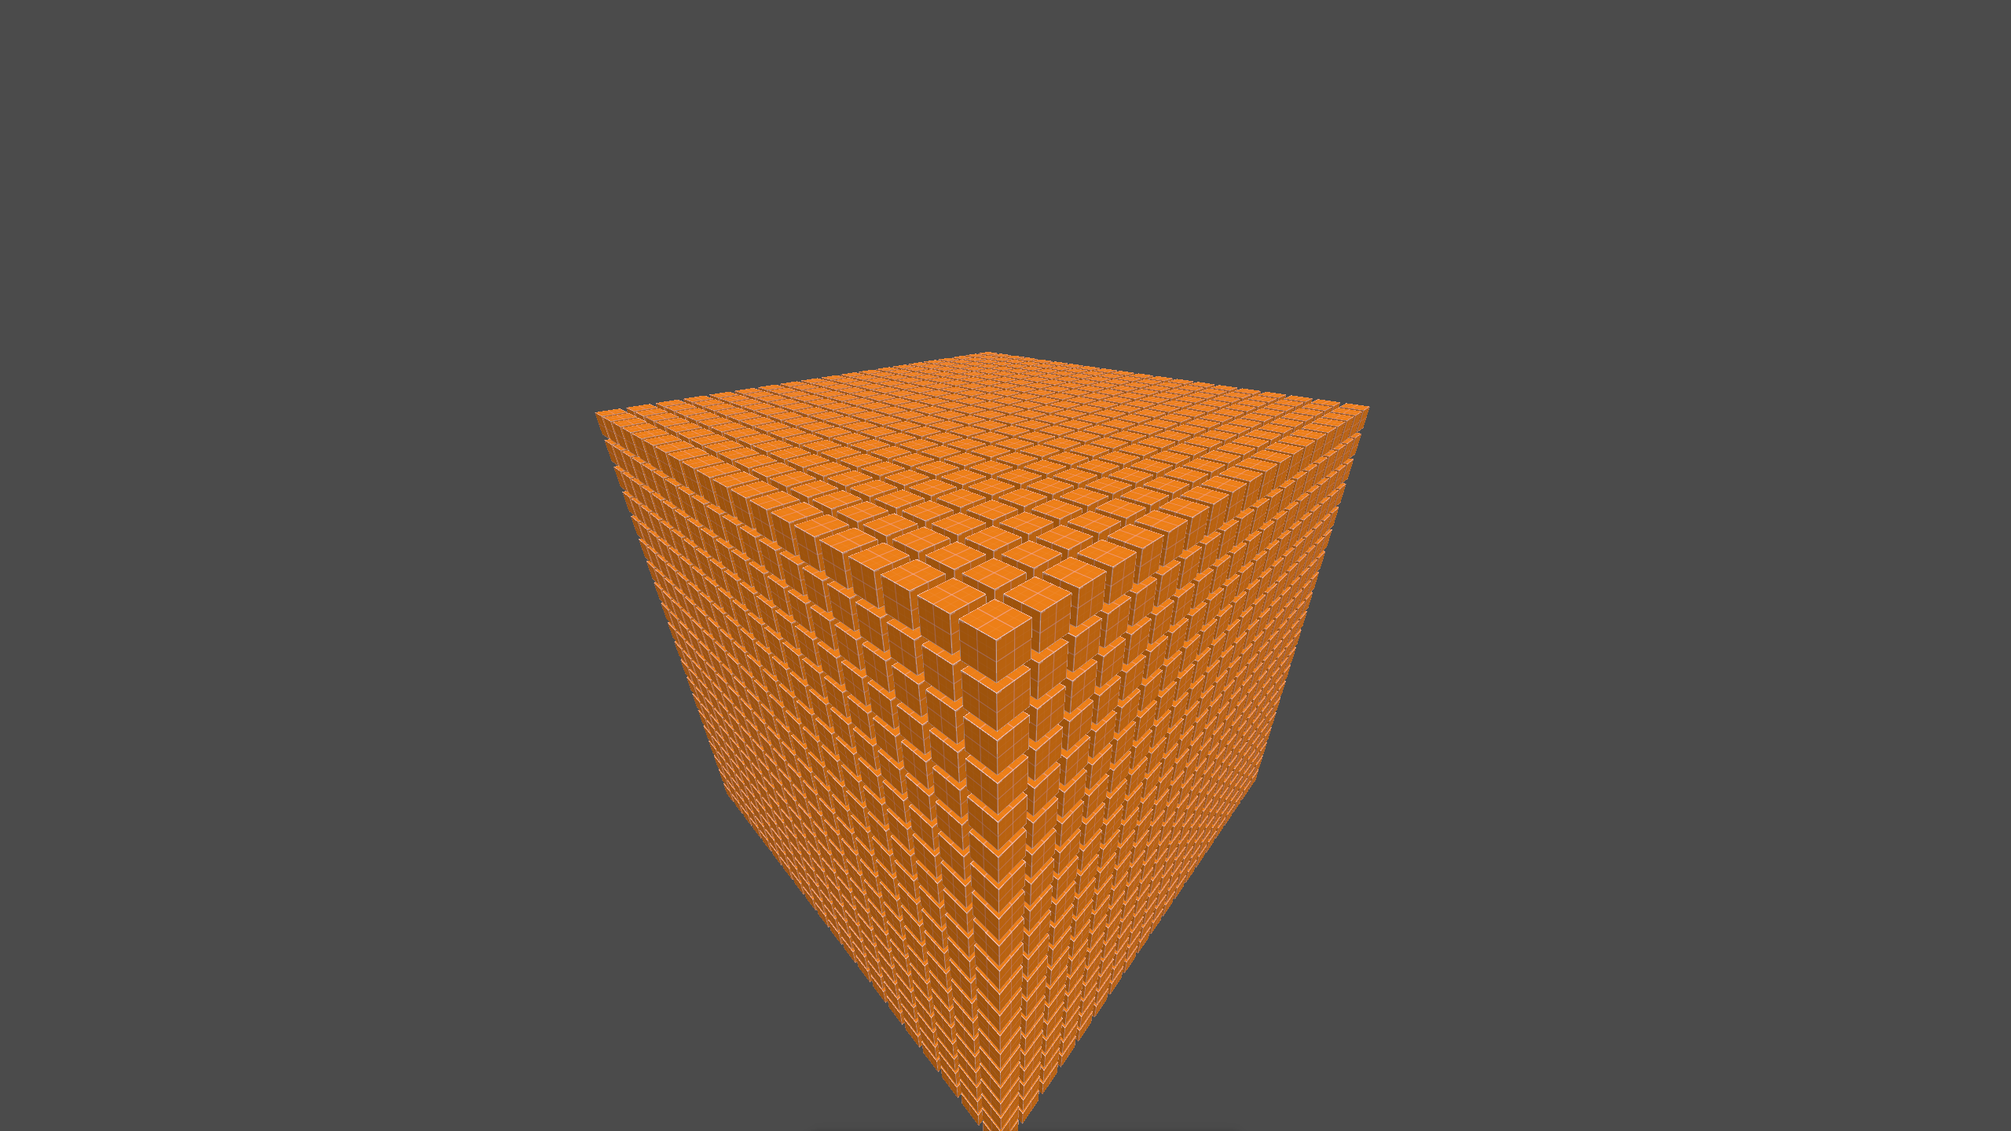
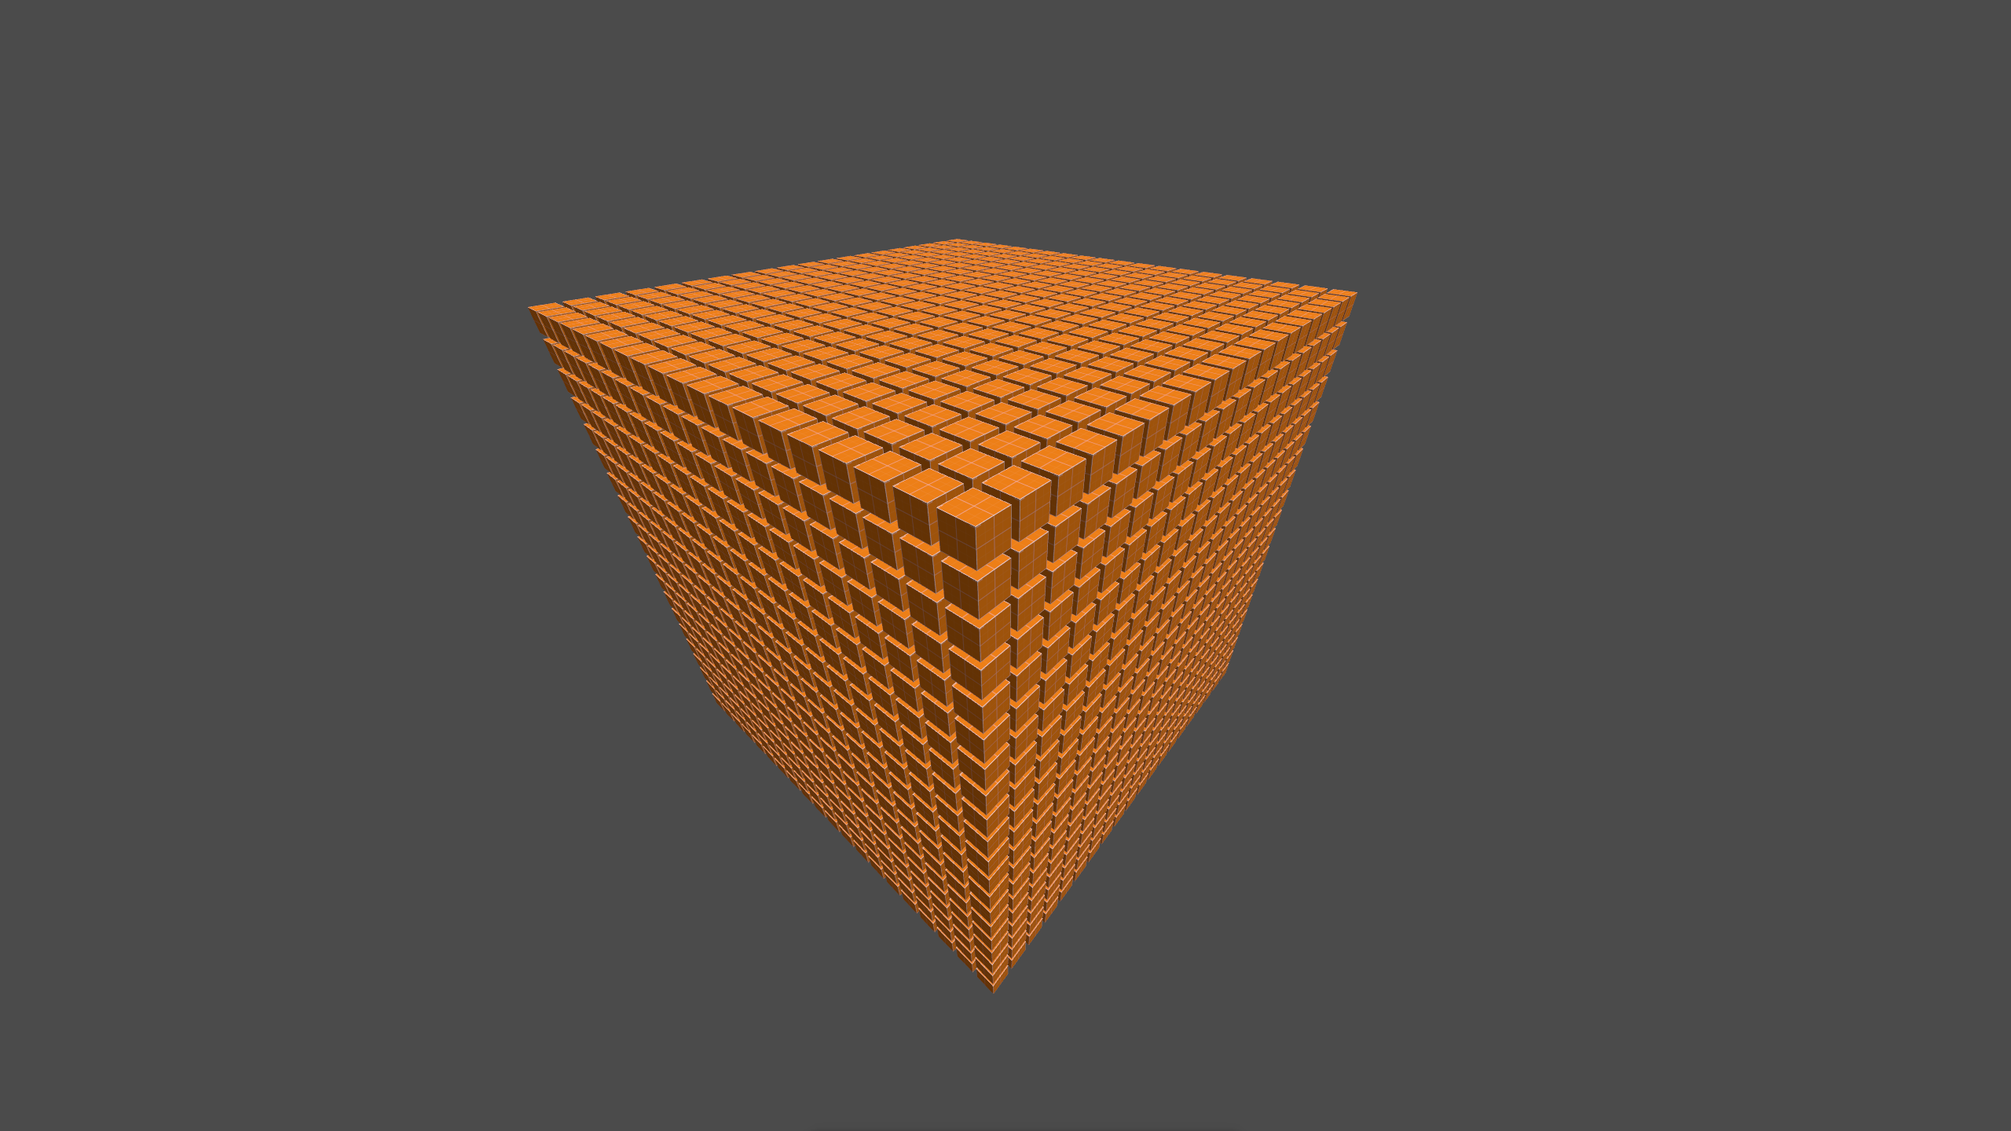
added: msaa

Changed region(s): [[0.25, 0.1875, 0.6875, 1.0]]

diff --git a/src/vulkan/image.cc b/src/vulkan/image.cc
@@ -12,13 +12,13 @@ namespace n_image
   {
     VkImageViewCreateInfo viewInfo{};
     viewInfo.sType    = VK_STRUCTURE_TYPE_IMAGE_VIEW_CREATE_INFO;
-    viewInfo.image    = texture.image;
+    viewInfo.image    = texture.m_image;
     viewInfo.viewType = VK_IMAGE_VIEW_TYPE_2D;
     viewInfo.format   = format;
 
     viewInfo.subresourceRange.aspectMask      = VK_IMAGE_ASPECT_COLOR_BIT;
     viewInfo.subresourceRange.baseMipLevel    = 0;
-    viewInfo.subresourceRange.levelCount      = texture.mipLevels;
+    viewInfo.subresourceRange.levelCount      = texture.m_mipLevels;
     viewInfo.subresourceRange.baseArrayLayer  = 0;
     viewInfo.subresourceRange.layerCount      = 1;
 
@@ -42,7 +42,7 @@ void generateMipmaps(Context &context, Command &command, Texture &texture,
 
   VkImageMemoryBarrier barrier{};
   barrier.sType                           = VK_STRUCTURE_TYPE_IMAGE_MEMORY_BARRIER;
-  barrier.image                           = texture.image;
+  barrier.image                           = texture.m_image;
   barrier.srcQueueFamilyIndex             = VK_QUEUE_FAMILY_IGNORED;
   barrier.dstQueueFamilyIndex             = VK_QUEUE_FAMILY_IGNORED;
   barrier.subresourceRange.aspectMask     = VK_IMAGE_ASPECT_COLOR_BIT;
@@ -80,8 +80,8 @@ void generateMipmaps(Context &context, Command &command, Texture &texture,
     blit.dstSubresource.layerCount     = 1;
 
     vkCmdBlitImage(commandBuffer,
-        texture.image, VK_IMAGE_LAYOUT_TRANSFER_SRC_OPTIMAL,
-        texture.image, VK_IMAGE_LAYOUT_TRANSFER_DST_OPTIMAL,
+        texture.m_image, VK_IMAGE_LAYOUT_TRANSFER_SRC_OPTIMAL,
+        texture.m_image, VK_IMAGE_LAYOUT_TRANSFER_DST_OPTIMAL,
         1, &blit, VK_FILTER_LINEAR);
 
     barrier.oldLayout     = VK_IMAGE_LAYOUT_TRANSFER_SRC_OPTIMAL;
@@ -117,13 +117,13 @@ void generateMipmaps(Context &context, Command &command, Texture &texture,
     if (!pixels)
       throw std::runtime_error("failed to load texture image: " + path);
 
-    texture.width  = static_cast<uint32_t>(width);
-    texture.height = static_cast<uint32_t>(height);
+    texture.m_width  = static_cast<uint32_t>(width);
+    texture.m_height = static_cast<uint32_t>(height);
 
-    texture.mipLevels = static_cast<uint32_t>(
+    texture.m_mipLevels = static_cast<uint32_t>(
         std::floor(std::log2(std::max(width, height)))) + 1;
 
-    VkDeviceSize imageSize = static_cast<VkDeviceSize>(texture.width) * texture.height * 4;
+    VkDeviceSize imageSize = static_cast<VkDeviceSize>(texture.m_width) * texture.m_height * 4;
 
     Buffer staging{};
     n_buffer::create_buffer(staging, context, imageSize, VK_BUFFER_USAGE_TRANSFER_SRC_BIT,
@@ -136,15 +136,18 @@ void generateMipmaps(Context &context, Command &command, Texture &texture,
     VkImageCreateInfo imageInfo{};
     imageInfo.sType         = VK_STRUCTURE_TYPE_IMAGE_CREATE_INFO;
     imageInfo.imageType     = VK_IMAGE_TYPE_2D;
-    imageInfo.extent.width  = texture.width;
-    imageInfo.extent.height = texture.height;
+    imageInfo.extent.width  = texture.m_width;
+    imageInfo.extent.height = texture.m_height;
     imageInfo.extent.depth  = 1;
-    imageInfo.mipLevels     = texture.mipLevels;
+    imageInfo.mipLevels     = texture.m_mipLevels;
     imageInfo.arrayLayers   = 1;
     imageInfo.format        = VK_FORMAT_R8G8B8A8_SRGB;
     imageInfo.tiling        = VK_IMAGE_TILING_OPTIMAL;
     imageInfo.initialLayout = VK_IMAGE_LAYOUT_UNDEFINED;
-imageInfo.usage = VK_IMAGE_USAGE_TRANSFER_DST_BIT | VK_IMAGE_USAGE_TRANSFER_SRC_BIT | VK_IMAGE_USAGE_SAMPLED_BIT;
+    imageInfo.usage         = VK_IMAGE_USAGE_TRANSFER_DST_BIT |
+                              VK_IMAGE_USAGE_TRANSFER_SRC_BIT |
+                              VK_IMAGE_USAGE_SAMPLED_BIT;
+
     imageInfo.sharingMode   = VK_SHARING_MODE_EXCLUSIVE;
     imageInfo.samples       = VK_SAMPLE_COUNT_1_BIT;
 
@@ -152,29 +155,30 @@ imageInfo.usage = VK_IMAGE_USAGE_TRANSFER_DST_BIT | VK_IMAGE_USAGE_TRANSFER_SRC_
     allocInfo.usage = VMA_MEMORY_USAGE_AUTO;
 
     vkCheck(vmaCreateImage(context.m_allocator, &imageInfo, &allocInfo,
-          &texture.image, &texture.allocation, nullptr),
+          &texture.m_image, &texture.m_allocation, nullptr),
         "failed to create texture image");
 
     n_buffer::transitionImageLayout(context, command, texture, VK_FORMAT_R8G8B8A8_SRGB,
         VK_IMAGE_LAYOUT_UNDEFINED, VK_IMAGE_LAYOUT_TRANSFER_DST_OPTIMAL);
 
-    n_buffer::copyBufferToImage(context, command, staging.m_buffer, texture.image, texture.width, texture.height);
+    n_buffer::copyBufferToImage(context, command, staging.m_buffer, texture.m_image,
+        texture.m_width, texture.m_height);
 
     n_buffer::destroyBuffer(staging, context);
     n_image::generateMipmaps(context, command, texture, VK_FORMAT_R8G8B8A8_SRGB,
-    texture.width, texture.height, texture.mipLevels);
+    texture.m_width, texture.m_height, texture.m_mipLevels);
 
-    texture.view = createImageView(context, texture, VK_FORMAT_R8G8B8A8_SRGB);
+    texture.m_view = createImageView(context, texture, VK_FORMAT_R8G8B8A8_SRGB);
   }
   void destroyTexture(Texture &texture, Context &context)
   {
-    if (texture.image != VK_NULL_HANDLE)
-      vkDestroyImage(context.m_device, texture.image, nullptr);
+    if (texture.m_image != VK_NULL_HANDLE)
+      vkDestroyImage(context.m_device, texture.m_image, nullptr);
 
-    if (texture.allocation != VK_NULL_HANDLE)
-      vmaFreeMemory(context.m_allocator, texture.allocation);
+    if (texture.m_allocation != VK_NULL_HANDLE)
+      vmaFreeMemory(context.m_allocator, texture.m_allocation);
 
-    if (texture.view != VK_NULL_HANDLE)
-      vkDestroyImageView(context.m_device, texture.view, nullptr);
+    if (texture.m_view != VK_NULL_HANDLE)
+      vkDestroyImageView(context.m_device, texture.m_view, nullptr);
   }
 }

diff --git a/src/vulkan/context.cc b/src/vulkan/context.cc
@@ -23,19 +23,15 @@ namespace n_context {
 
   VkSampleCountFlagBits getMaxUsableSampleCount(Context &context)
   {
-    VkPhysicalDeviceProperties physicalDeviceProperties;
-    vkGetPhysicalDeviceProperties(context.m_physicalDevice, &physicalDeviceProperties);
-
-    VkSampleCountFlags counts = 
-      physicalDeviceProperties.limits.framebufferColorSampleCounts &
-      physicalDeviceProperties.limits.framebufferDepthSampleCounts;
-
-    if (counts & VK_SAMPLE_COUNT_64_BIT) { return VK_SAMPLE_COUNT_64_BIT; }
-    if (counts & VK_SAMPLE_COUNT_32_BIT) { return VK_SAMPLE_COUNT_32_BIT; }
-    if (counts & VK_SAMPLE_COUNT_16_BIT) { return VK_SAMPLE_COUNT_16_BIT; }
-    if (counts & VK_SAMPLE_COUNT_8_BIT) { return VK_SAMPLE_COUNT_8_BIT; }
-    if (counts & VK_SAMPLE_COUNT_4_BIT) { return VK_SAMPLE_COUNT_4_BIT; }
-    if (counts & VK_SAMPLE_COUNT_2_BIT) { return VK_SAMPLE_COUNT_2_BIT; }
+    if (context.m_msaa > 16 )
+    {
+      std::print("msaa sample count is too high 1x - 16x\n");
+      context.m_msaa = 16;
+    }
+    if (context.m_msaa & VK_SAMPLE_COUNT_16_BIT) { return VK_SAMPLE_COUNT_16_BIT; }
+    if (context.m_msaa & VK_SAMPLE_COUNT_8_BIT)  { return VK_SAMPLE_COUNT_8_BIT;  }
+    if (context.m_msaa & VK_SAMPLE_COUNT_4_BIT)  { return VK_SAMPLE_COUNT_4_BIT;  }
+    if (context.m_msaa & VK_SAMPLE_COUNT_2_BIT)  { return VK_SAMPLE_COUNT_2_BIT;  }
 
     return VK_SAMPLE_COUNT_1_BIT;
   }
@@ -57,6 +53,18 @@ namespace n_context {
 
   void destroySwapchain(Context &context)
   {
+    if (context.m_msaaColorImageView != VK_NULL_HANDLE)
+    {
+      vkDestroyImageView(context.m_device, context.m_msaaColorImageView, nullptr);
+      context.m_msaaColorImageView = VK_NULL_HANDLE;
+    }
+    if (context.m_msaaColorImage != VK_NULL_HANDLE)
+    {
+      vmaDestroyImage(context.m_allocator, context.m_msaaColorImage, context.m_msaaColorAllocation);
+      context.m_msaaColorImage = VK_NULL_HANDLE;
+      context.m_msaaColorAllocation = VK_NULL_HANDLE;
+    }
+
     if (context.m_depthImageView != VK_NULL_HANDLE)
     {
       vkDestroyImageView(context.m_device, context.m_depthImageView, nullptr);
@@ -142,6 +150,45 @@ namespace n_context {
           "failed to create swapchain image view\n");
     }
 
+    context.m_msaaSamples = getMaxUsableSampleCount(context);
+
+    VkImageCreateInfo msaaColorCreateInfo {};
+    msaaColorCreateInfo.sType          = VK_STRUCTURE_TYPE_IMAGE_CREATE_INFO;
+    msaaColorCreateInfo.imageType      = VK_IMAGE_TYPE_2D;
+    msaaColorCreateInfo.format         = context.m_swapchainImageFormat; // Must match exactly!
+    msaaColorCreateInfo.extent.width   = context.m_swapchain_extent.width;
+    msaaColorCreateInfo.extent.height  = context.m_swapchain_extent.height;
+    msaaColorCreateInfo.extent.depth   = 1;
+    msaaColorCreateInfo.mipLevels      = 1;
+    msaaColorCreateInfo.arrayLayers    = 1;
+    msaaColorCreateInfo.samples        = context.m_msaaSamples; // E.g., 4x or 8x
+    msaaColorCreateInfo.tiling         = VK_IMAGE_TILING_OPTIMAL;
+    // Marked transient: mobile/laptop GPUs can process this entirely on-chip without hitting VRAM!
+    msaaColorCreateInfo.usage          = VK_IMAGE_USAGE_COLOR_ATTACHMENT_BIT | VK_IMAGE_USAGE_TRANSIENT_ATTACHMENT_BIT;
+    msaaColorCreateInfo.initialLayout  = VK_IMAGE_LAYOUT_UNDEFINED;
+
+    VmaAllocationCreateInfo msaaAllocCreateInfo{};
+    msaaAllocCreateInfo.flags = VMA_ALLOCATION_CREATE_DEDICATED_MEMORY_BIT;
+    msaaAllocCreateInfo.usage = VMA_MEMORY_USAGE_AUTO;
+
+    vkCheck(vmaCreateImage(context.m_allocator, &msaaColorCreateInfo, &msaaAllocCreateInfo,
+          &context.m_msaaColorImage, &context.m_msaaColorAllocation, nullptr), 
+        "failed to create MSAA color image\n");
+
+    VkImageViewCreateInfo msaaViewCreateInfo{};
+    msaaViewCreateInfo.sType                           = VK_STRUCTURE_TYPE_IMAGE_VIEW_CREATE_INFO;
+    msaaViewCreateInfo.image                           = context.m_msaaColorImage;
+    msaaViewCreateInfo.viewType                        = VK_IMAGE_VIEW_TYPE_2D;
+    msaaViewCreateInfo.format                          = context.m_swapchainImageFormat;
+    msaaViewCreateInfo.subresourceRange.aspectMask     = VK_IMAGE_ASPECT_COLOR_BIT;
+    msaaViewCreateInfo.subresourceRange.baseMipLevel   = 0;
+    msaaViewCreateInfo.subresourceRange.levelCount     = 1;
+    msaaViewCreateInfo.subresourceRange.baseArrayLayer = 0;
+    msaaViewCreateInfo.subresourceRange.layerCount     = 1;
+
+    vkCheck(vkCreateImageView(context.m_device, &msaaViewCreateInfo, nullptr, &context.m_msaaColorImageView), 
+        "failed to create MSAA color image view\n");
+
     // depth buffer
     std::vector<VkFormat> depthFormatList 
     {
@@ -176,7 +223,7 @@ namespace n_context {
     depthImageCreateInfo.extent.depth   = 1;
     depthImageCreateInfo.mipLevels      = 1;
     depthImageCreateInfo.arrayLayers    = 1;
-    depthImageCreateInfo.samples        = VK_SAMPLE_COUNT_1_BIT;
+    depthImageCreateInfo.samples        = context.m_msaaSamples;
     depthImageCreateInfo.tiling         = VK_IMAGE_TILING_OPTIMAL;
     depthImageCreateInfo.usage          = VK_IMAGE_USAGE_DEPTH_STENCIL_ATTACHMENT_BIT;
     depthImageCreateInfo.initialLayout  = VK_IMAGE_LAYOUT_UNDEFINED;

diff --git a/src/vulkan/command.cc b/src/vulkan/command.cc
@@ -57,19 +57,32 @@ namespace n_command
 
     vkCheck(vkBeginCommandBuffer(commandBuffer, &beginInfo), 
         "failed to begin recording command buffer");
+ 
+    VkImageMemoryBarrier2 resolveOutputBarrier{};
+    resolveOutputBarrier.sType          = VK_STRUCTURE_TYPE_IMAGE_MEMORY_BARRIER_2;
+    resolveOutputBarrier.srcStageMask   = VK_PIPELINE_STAGE_2_COLOR_ATTACHMENT_OUTPUT_BIT;
+    resolveOutputBarrier.srcAccessMask  = 0;
+    resolveOutputBarrier.dstStageMask   = VK_PIPELINE_STAGE_2_COLOR_ATTACHMENT_OUTPUT_BIT;
+    resolveOutputBarrier.dstAccessMask  = VK_ACCESS_COLOR_ATTACHMENT_WRITE_BIT;
+    resolveOutputBarrier.oldLayout      = VK_IMAGE_LAYOUT_UNDEFINED;
+    resolveOutputBarrier.newLayout      = VK_IMAGE_LAYOUT_ATTACHMENT_OPTIMAL;
+    resolveOutputBarrier.image          = context.m_swapchainImages[imageIndex];
+    resolveOutputBarrier.subresourceRange.aspectMask = VK_IMAGE_ASPECT_COLOR_BIT;
+    resolveOutputBarrier.subresourceRange.levelCount = 1;
+    resolveOutputBarrier.subresourceRange.layerCount = 1;
 
-    VkImageMemoryBarrier2 colorOutputBarrier{};
-    colorOutputBarrier.sType          = VK_STRUCTURE_TYPE_IMAGE_MEMORY_BARRIER_2;
-    colorOutputBarrier.srcStageMask   = VK_PIPELINE_STAGE_2_COLOR_ATTACHMENT_OUTPUT_BIT;
-    colorOutputBarrier.srcAccessMask  = 0;
-    colorOutputBarrier.dstStageMask   = VK_PIPELINE_STAGE_2_COLOR_ATTACHMENT_OUTPUT_BIT;
-    colorOutputBarrier.dstAccessMask  = VK_ACCESS_COLOR_ATTACHMENT_READ_BIT | VK_ACCESS_COLOR_ATTACHMENT_WRITE_BIT;
-    colorOutputBarrier.oldLayout                    = VK_IMAGE_LAYOUT_UNDEFINED;
-    colorOutputBarrier.newLayout                    = VK_IMAGE_LAYOUT_ATTACHMENT_OPTIMAL;
-    colorOutputBarrier.image                        = context.m_swapchainImages[imageIndex];
-    colorOutputBarrier.subresourceRange.aspectMask  = VK_IMAGE_ASPECT_COLOR_BIT;
-    colorOutputBarrier.subresourceRange.levelCount  = 1;
-    colorOutputBarrier.subresourceRange.layerCount  = 1;
+    VkImageMemoryBarrier2 msaaColorBarrier{};
+    msaaColorBarrier.sType          = VK_STRUCTURE_TYPE_IMAGE_MEMORY_BARRIER_2;
+    msaaColorBarrier.srcStageMask   = VK_PIPELINE_STAGE_2_COLOR_ATTACHMENT_OUTPUT_BIT;
+    msaaColorBarrier.srcAccessMask  = 0;
+    msaaColorBarrier.dstStageMask   = VK_PIPELINE_STAGE_2_COLOR_ATTACHMENT_OUTPUT_BIT;
+    msaaColorBarrier.dstAccessMask  = VK_ACCESS_COLOR_ATTACHMENT_READ_BIT | VK_ACCESS_COLOR_ATTACHMENT_WRITE_BIT;
+    msaaColorBarrier.oldLayout      = VK_IMAGE_LAYOUT_UNDEFINED;
+    msaaColorBarrier.newLayout      = VK_IMAGE_LAYOUT_ATTACHMENT_OPTIMAL;
+    msaaColorBarrier.image          = context.m_msaaColorImage;
+    msaaColorBarrier.subresourceRange.aspectMask = VK_IMAGE_ASPECT_COLOR_BIT;
+    msaaColorBarrier.subresourceRange.levelCount = 1;
+    msaaColorBarrier.subresourceRange.layerCount = 1;
 
     VkImageMemoryBarrier2 depthOutputBarrier{};
     depthOutputBarrier.sType          = VK_STRUCTURE_TYPE_IMAGE_MEMORY_BARRIER_2;
@@ -84,7 +97,7 @@ namespace n_command
     depthOutputBarrier.subresourceRange.levelCount = 1;
     depthOutputBarrier.subresourceRange.layerCount = 1;
 
-    std::array<VkImageMemoryBarrier2, 2> outputBarriers{ colorOutputBarrier, depthOutputBarrier };
+    std::array<VkImageMemoryBarrier2, 3> outputBarriers{ resolveOutputBarrier, msaaColorBarrier, depthOutputBarrier };
 
     VkDependencyInfo barrierDependencyInfo{};
     barrierDependencyInfo.sType                   = VK_STRUCTURE_TYPE_DEPENDENCY_INFO;
@@ -96,12 +109,16 @@ namespace n_command
     clearColor.color = {{0.07, 0.07, 0.07, 1.0}};
 
     VkRenderingAttachmentInfo colorAttachmentInfo{};
-    colorAttachmentInfo.sType       = VK_STRUCTURE_TYPE_RENDERING_ATTACHMENT_INFO;
-    colorAttachmentInfo.imageView   = context.m_swapchainImageViews[imageIndex];
-    colorAttachmentInfo.imageLayout = VK_IMAGE_LAYOUT_ATTACHMENT_OPTIMAL;
-    colorAttachmentInfo.loadOp      = VK_ATTACHMENT_LOAD_OP_CLEAR;
-    colorAttachmentInfo.storeOp     = VK_ATTACHMENT_STORE_OP_STORE;
-    colorAttachmentInfo.clearValue  = clearColor;
+    colorAttachmentInfo.sType              = VK_STRUCTURE_TYPE_RENDERING_ATTACHMENT_INFO;
+    colorAttachmentInfo.imageView          = context.m_msaaColorImageView;
+    colorAttachmentInfo.imageLayout        = VK_IMAGE_LAYOUT_ATTACHMENT_OPTIMAL;
+    colorAttachmentInfo.loadOp             = VK_ATTACHMENT_LOAD_OP_CLEAR;
+    colorAttachmentInfo.storeOp            = VK_ATTACHMENT_STORE_OP_DONT_CARE;
+    colorAttachmentInfo.clearValue         = clearColor;
+    
+    colorAttachmentInfo.resolveMode        = VK_RESOLVE_MODE_AVERAGE_BIT;
+    colorAttachmentInfo.resolveImageView   = context.m_swapchainImageViews[imageIndex];
+    colorAttachmentInfo.resolveImageLayout = VK_IMAGE_LAYOUT_ATTACHMENT_OPTIMAL;
 
     VkRenderingAttachmentInfo depthAttachmentInfo{};
     depthAttachmentInfo.sType       = VK_STRUCTURE_TYPE_RENDERING_ATTACHMENT_INFO;

diff --git a/src/vulkan/image.h b/src/vulkan/image.h
@@ -7,19 +7,18 @@ struct Command;
 
 struct Texture
 {
-  VkImage        image      = VK_NULL_HANDLE;
-  VmaAllocation  allocation = VK_NULL_HANDLE;
-  VkImageView    view       = VK_NULL_HANDLE;
-  uint32_t       width = 0, height = 0, channels = 4, mipLevels = 1;
+  VkImage        m_image      = VK_NULL_HANDLE;
+  VmaAllocation  m_allocation = VK_NULL_HANDLE;
+  VkImageView    m_view       = VK_NULL_HANDLE;
+  uint32_t       m_width = 0, m_height = 0, m_channels = 4, m_mipLevels = 1;
 };
 
 namespace n_image
 {
-  void createTexture(Texture &texture, Context &context, Command &command, std::string path);
+  void        createTexture(Texture &texture, Context &context, Command &command, std::string path);
   VkImageView createImageView(Context &context, VkImage image, VkFormat format);
-  void destroyTexture(Texture &texture, Context &context);
-
-  void generateMipmaps(Context &context, Command &command, Texture &texture,
+  void        destroyTexture(Texture &texture, Context &context);
+  void        generateMipmaps(Context &context, Command &command, Texture &texture,
       VkFormat imageFormat, int32_t texWidth, int32_t texHeight, uint32_t mipLevels);
 
 }

diff --git a/src/vulkan/context.h b/src/vulkan/context.h
@@ -1,6 +1,7 @@
 #pragma once
 
 #include "src/core/pch.h"
+#include <cstdint>
 #include <src/vulkan/window.h>
 #include <vulkan/vulkan_core.h>
 #include <vector>  // Add this
@@ -25,8 +26,12 @@ struct Context
   VmaAllocation             m_depthAllocation       = VK_NULL_HANDLE;
   uint32_t                  m_queueFamily           = 0;
 
-  VkSampleCountFlagBits     m_msaaSamples           = VK_SAMPLE_COUNT_1_BIT;
+  VkImage                   m_msaaColorImage        = VK_NULL_HANDLE;
+  VkImageView               m_msaaColorImageView    = VK_NULL_HANDLE;
+  VmaAllocation             m_msaaColorAllocation   = VK_NULL_HANDLE;
 
+  VkSampleCountFlagBits     m_msaaSamples           = VK_SAMPLE_COUNT_1_BIT;
+  uint32_t                  m_msaa                  = 4;
   bool                      m_vsyncEnabled          = false;
 };
 
@@ -37,4 +42,6 @@ namespace n_context
   void createSwapchain(Context &context, Window &window);
   void destroySwapchain(Context &context);
   void recreateSwapchain(Context &context, Window &window); 
+  VkSampleCountFlagBits getMaxUsableSampleCount(Context &context);
+
 }

diff --git a/src/vulkan/pipeline.cc b/src/vulkan/pipeline.cc
@@ -94,7 +94,7 @@ namespace n_pipeline
     VkPipelineMultisampleStateCreateInfo multisampling{};
     multisampling.sType                 = VK_STRUCTURE_TYPE_PIPELINE_MULTISAMPLE_STATE_CREATE_INFO;
     multisampling.sampleShadingEnable   = VK_FALSE;
-    multisampling.rasterizationSamples  = VK_SAMPLE_COUNT_1_BIT;
+    multisampling.rasterizationSamples  = context.m_msaaSamples;
 
     VkPipelineColorBlendAttachmentState colorBlendAttachment{};
     colorBlendAttachment.colorWriteMask = VK_COLOR_COMPONENT_R_BIT | VK_COLOR_COMPONENT_G_BIT | VK_COLOR_COMPONENT_B_BIT | VK_COLOR_COMPONENT_A_BIT;

diff --git a/src/vulkan/buffer.cc b/src/vulkan/buffer.cc
@@ -85,8 +85,8 @@ namespace n_buffer
     barrier.newLayout           = newLayout;
     barrier.srcQueueFamilyIndex = VK_QUEUE_FAMILY_IGNORED;
     barrier.dstQueueFamilyIndex = VK_QUEUE_FAMILY_IGNORED;
-    barrier.image               = texture.image;
-    barrier.subresourceRange    = { VK_IMAGE_ASPECT_COLOR_BIT, 0, texture.mipLevels, 0, 1 };
+    barrier.image               = texture.m_image;
+    barrier.subresourceRange    = { VK_IMAGE_ASPECT_COLOR_BIT, 0, texture.m_mipLevels, 0, 1 };
 
     VkPipelineStageFlags srcStage, dstStage;
 

diff --git a/src/vulkan/buffer.h b/src/vulkan/buffer.h
@@ -66,6 +66,7 @@ namespace n_buffer
   void transitionImageLayout(Context &context, Command &command, Texture &texture, VkFormat format, VkImageLayout oldLayout, VkImageLayout newLayout);
 
   void copyBufferToImage(Context &context, Command &command, VkBuffer buffer, VkImage image, uint32_t width, uint32_t height);
+
   void createVertexBuffer(Buffer &buffer, Command &command, Context &context, std::vector<Vertex> vertices);
   void createIndexBuffer(Buffer &buffer, Command &command, Context &context, std::vector<uint32_t> indices);
 

diff --git a/src/core/i_resource.cc b/src/core/i_resource.cc
@@ -62,7 +62,7 @@ namespace n_resource
         context,
         iResource.uboBuffer,
         iResource.ssboBuffer,
-        iResource.m_texture.view,
+        iResource.m_texture.m_view,
         iRender.m_maxFramesInFlight
         );
   } 
